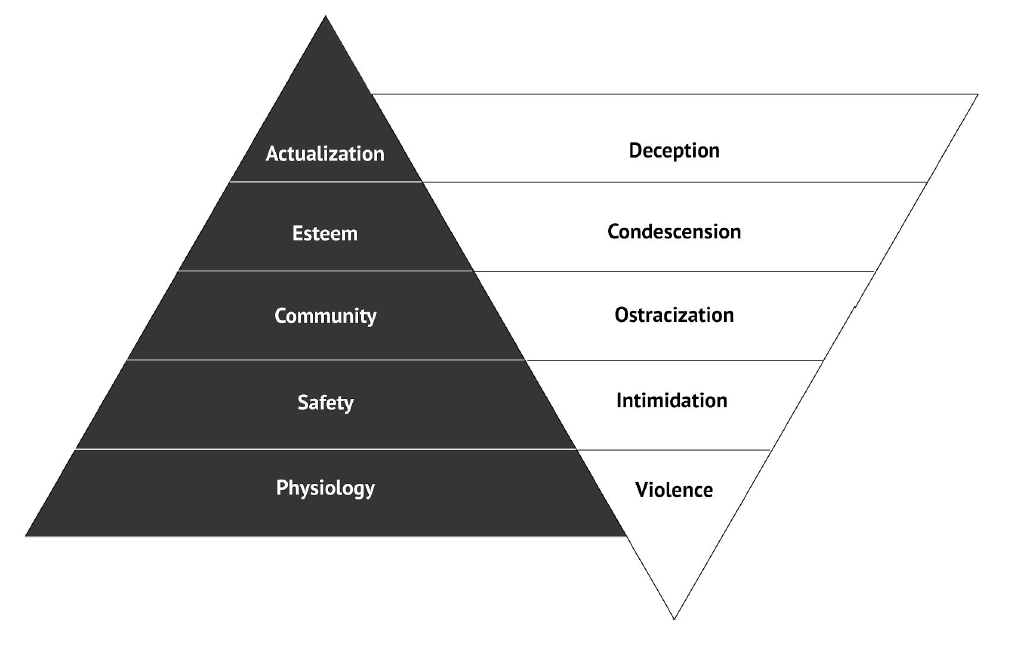
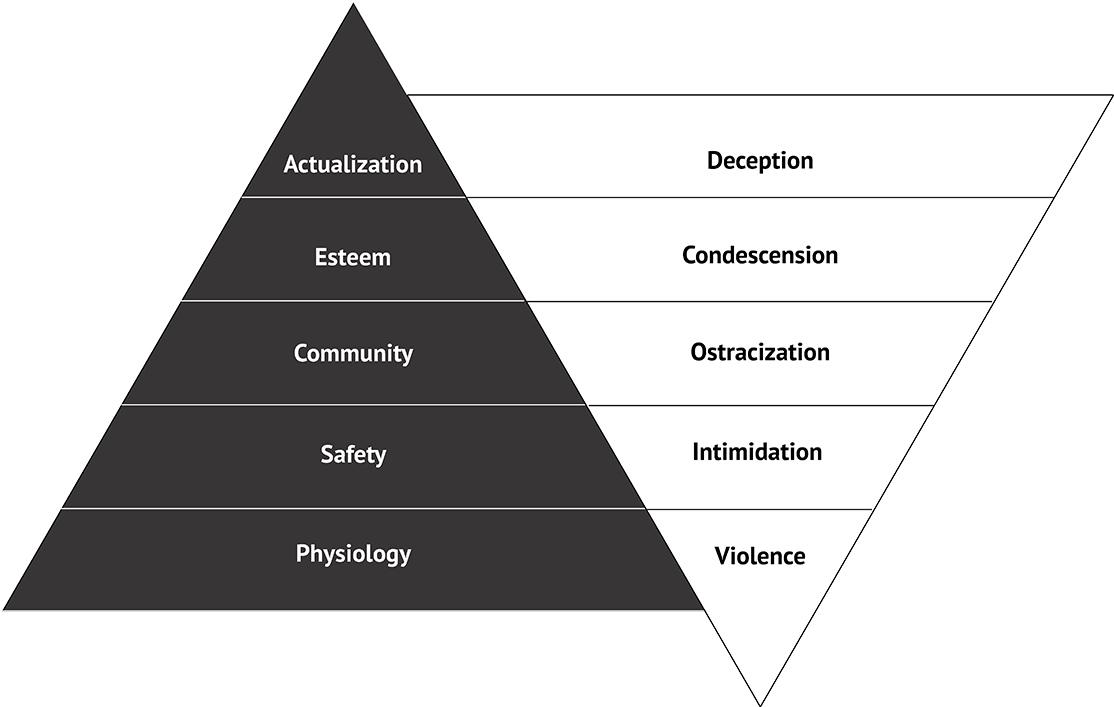
adding mobile images

diff --git a/ch1.2.html b/ch1.2.html
@@ -51,10 +51,10 @@
 	
 				<div class="afterwards" id="fade">
 					
-					<!-- <a class="link-forward" href="ch2.html"></a> -->
+					<a class="link-forward" href="ch2.html"></a>
 
 					<div class="outer">
-						<!-- <h1 class="inner2">Cooperation<span class="link-space">_</span>is<span class="link-space">_</span>a<span class="link-space">_</span>Fact<span class="link-space">_</span>of<span class="link-space">_</span>Life<span class="link-space">_</span>&#8593;</h1> -->
+						<h1 class="inner2">Cooperation<span class="link-space">_</span>is<span class="link-space">_</span>a<span class="link-space">_</span>Fact<span class="link-space">_</span>of<span class="link-space">_</span>Life<span class="link-space">_</span>&#8593;</h1>
 					</div>
 				</div>
 			</div>
@@ -96,6 +96,7 @@
 			<div class="content-container no-border">
 
 				<img class="img-half web" id="img1" src="img/ch1/full/1.gif">
+				<img class="img-half middle" id="img1" src="img/ch1/mobile/1.gif">
 				<img class="img-half mobile" id="img1" src="img/ch1/mobile/1.gif">
 
 				<h3 class="ch-pull">
@@ -125,6 +126,7 @@
 			<div class="content-container no-border">
 
 				<img class="img-half web" src="img/ch1/full/2.gif">
+				<img class="img-half middle" src="img/ch1/mobile/2.gif">
 				<img class="img-half mobile" src="img/ch1/mobile/2.gif">
 
 				<h3 class="ch-pull" id="pull2">
@@ -183,6 +185,7 @@
 			<div class="content-container no-border">
 
 				<img class="img-half web" src="img/ch1/full/3.gif">
+				<img class="img-half middle" src="img/ch1/mobile/3.gif">
 				<img class="img-half mobile" src="img/ch1/mobile/3.gif">
 				
 				<h3 class="ch-pull" id="pull3">

diff --git a/css/4.01.css b/css/4.01.css
@@ -251,7 +251,8 @@ p {
 }
 
 .intro:hover,
-.intro-close:hover {
+.intro-close:hover,
+.afterwards:hover {
 	cursor: pointer;
 }
 
@@ -260,6 +261,17 @@ p {
 	-webkit-box-shadow: 6px 0 7px rgba(0,0,0,0.3);
 	-moz-box-shadow: 6px 0 7px rgba(0,0,0,0.3);
 	box-shadow: 6px 0 7px rgba(0,0,0,0.3);
+}
+
+.afterwards:hover {
+	-webkit-box-shadow: -6px 0 7px rgba(0,0,0,0.3);
+	-moz-box-shadow: -6px 0 7px rgba(0,0,0,0.3);
+	box-shadow: -6px 0 7px rgba(0,0,0,0.3);
+}
+
+.no-shadow:hover {
+	cursor: inherit;
+	box-shadow: none;
 }
 
 .box-shadow:hover {
@@ -439,7 +451,6 @@ li {
     background-size: 60%;
 }
 
-.ch2,
 .ch3,
 .ch4,
 .ch5,
@@ -478,13 +489,13 @@ a:hover {
 	background-image: none;
 }
 
-/*.ch2:hover,
-.ch7:hover {
+.ch2:hover
+/*.ch7:hover */{
 	background-color: #ffdb55;
 	background-image: none;
 }
 
-.ch3:hover,
+/*.ch3:hover,
 .ch8:hover {
 	background-color: #ffd582;
 	background-image: none;
@@ -525,6 +536,14 @@ a:hover {
 	-webkit-border-radius: 0 0 0 10px;
 	-moz-border-radius: 0 0 0 10px;
 }
+
+/*  =======================
+    IMG
+    ======================= */
+.full-image {
+	width: 100%;
+}
+
 
 /*  =======================
     MEDIA QUERIES

diff --git a/ch2.html b/ch2.html
@@ -36,7 +36,7 @@
 		<div class="container">
 			<div class="navigation">
 				<div class="intro" id="fade">
-					<a class="link-back" href="4.01.html"></a>
+					<a class="link-back" href="index.html"></a>
 
 					<div class="outer">
 						<h1 class="inner1">&#8593;<span class="link-space">_</span>Home</h1>
@@ -49,7 +49,7 @@
 					<h1><span class="italic">If I Ruled the World</span> presented by PRESS PRESS</h1>
 				</div>
 	
-				<div class="afterwards" id="fade">
+				<div class="afterwards no-shadow" id="fade">
 					
 					<!-- <a class="link-forward" href="ch2.html"></a> -->
 
@@ -70,7 +70,9 @@
 			</div>
 
 			<div class="content-container no-border">
-				<img src="img/ch2/d.png">
+				<img class="full-image web" src="img/ch2/d.png">
+				<img class="full-image middle" src="img/ch2/d-middle.png">
+				<img class="full-image mobile" src="img/ch2/d-mobile.png">
 			</div>
 
 			<div class="content-container no-border">

diff --git a/index.html b/index.html
@@ -120,20 +120,19 @@
 							</p>
 						</li>
 						<li class="ch2">
+							<a href="ch2.html">&nbsp;</a>
 
 							<p> 
 								<span class="ch-title">
 									Cooperation is a Fact of Life :
 								</span> 
-								<span class="desc-text">an interview with 
+								<span class="desc-text">In this conversation, artist, scholar and activist, 
 								</span>
 								<span class="author-name">
 									Person Ablach
 								</span>
-								<br>
-								<br>
 								<span class="desc-text">
-									Coming Soon
+									, discusses the absurdity of freedom as it relates to artistic practice and capitalism. These ideas lead us to discussing Person’s vision of more structured ways of being in the world which require working with others in your community as a standard practice.
 								</span>
 
 							</p>

diff --git a/css/ch1.2.css b/css/ch1.2.css
@@ -28,6 +28,10 @@ body {
 	display: block;
 }
 
+.middle {
+	display: none;
+}
+
 .mobile {
 	display: none;
 }
@@ -240,8 +244,12 @@ iframe {
 		display: none;
 	}
 
-	.mobile {
+	.middle {
 		display: block;
+	}
+
+	.mobile {
+		display: none;
 	}
 }
 
@@ -354,6 +362,18 @@ iframe {
 }
 
 @media (max-width: 550px) { 
+
+	.web {
+		display: none;
+	}
+
+	.middle {
+		display: none;
+	}
+
+	.mobile {
+		display: block;
+	}
 
 	/*text styling*/
 	.ch-heading {
